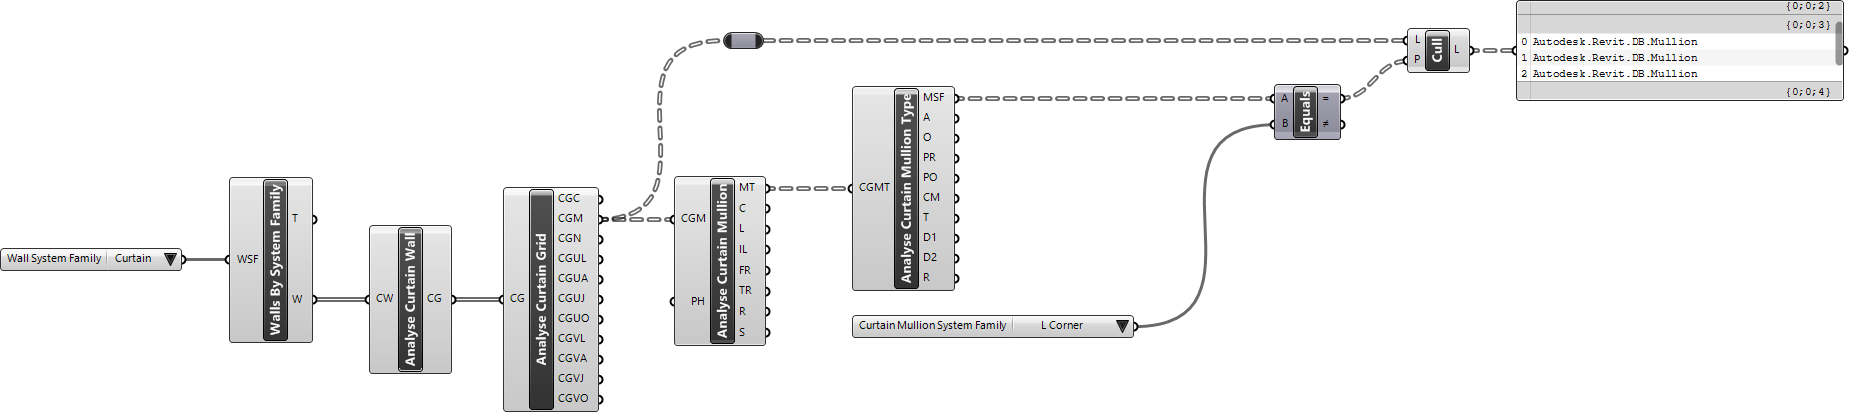
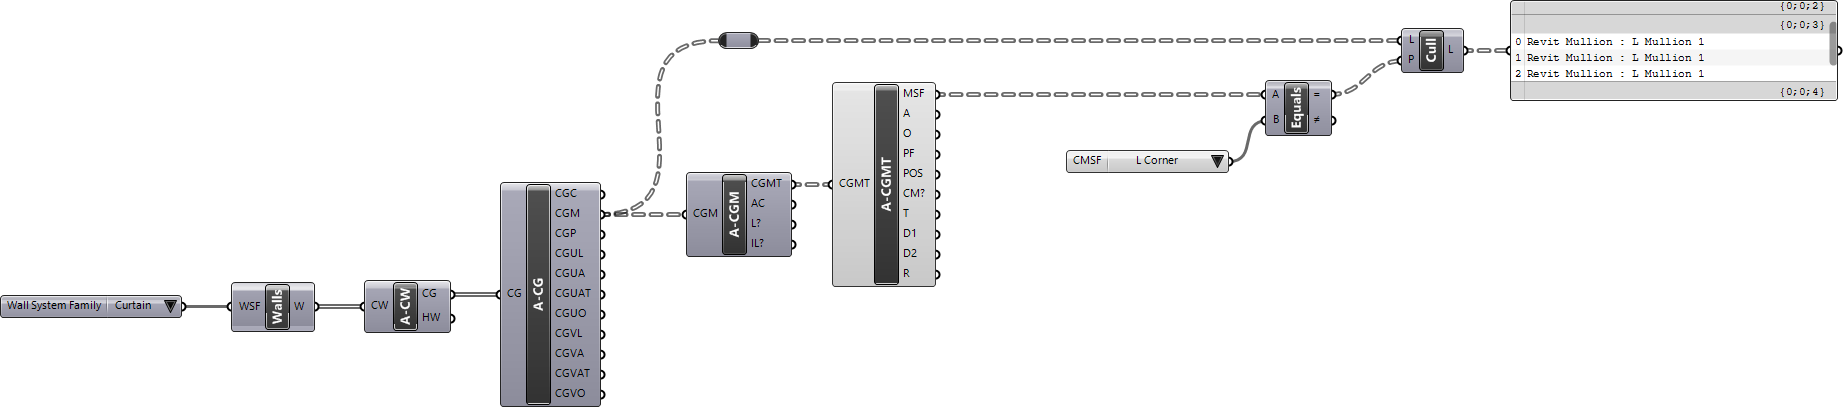
wiki update

diff --git a/docs/pages/_en/beta/guides/revit-curtainwalls.md b/docs/pages/_en/beta/guides/revit-curtainwalls.md
@@ -41,7 +41,7 @@ The types of *Curtain Mullions* and *Panels* used for a wall are defined in the 
 
 ## Walls vs Systems
 
-*Curtain Walls* and *Systems* are almost identical in definition. The only difference is that *Curtain Walls* are vertical and have directionality so the *Grid* configuration is set for **Vertical** and **Horizontal** grid lines. *Curtain Systems* can be created from *Mass* surfaces and thus are not bounded to a certain direction. Hence the *Grid* configurations is set for **Grid 1** and **Grid 2** axes.
+*Curtain Walls* and *Curtain Systems* are almost identical in definition. The only difference is that *Curtain Walls* are vertical and have directionality so the *Grid* configuration is set for **Vertical** and **Horizontal** grid lines. *Curtain Systems* can be created from *Mass* surfaces and thus are not flowing in a certain direction. Hence the *Grid* configurations is set for **Grid 1** and **Grid 2** axes.
 
 {% capture api_note %}
 In Revit API, *Curtain Walls* are represented by {% include api_type.html type='Autodesk.Revit.DB.Wall' title='DB.Wall' %} and *Curtain Systems* are represented by {% include api_type.html type='Autodesk.Revit.DB.CurtainSystem' title='DB.CurtainSystem' %} 
@@ -50,12 +50,12 @@ In Revit API, *Curtain Walls* are represented by {% include api_type.html type='
 
 ## Querying Curtain Walls
 
-Similar to collecting *Basic* and *Stacked Walls*, the custom components shared at [Walls (Basic & Stacked)]({{ site.baseurl }}{% link _en/beta/guides/revit-walls.md %}#by-wall-system-family) section, can help filtering the Curtain Wall instances and types:
+Similar to collecting *Basic* and *Stacked Walls*, the components shown at [Walls (Basic & Stacked)]({{ site.baseurl }}{% link _en/beta/guides/revit-walls.md %}#by-wall-system-family) section, can help filtering the Curtain Wall instances and types:
 
 ![]({{ "/static/images/guides/revit-curtainwalls03.png" | prepend: site.baseurl }})
 
 {% capture bubble_note %}
-As shown in the images below, a combination of category picker, *Element.CategoryFilter*, and *Document.ElementTypes* can be used to filter the *Curtain Panel* and *Curtain Mullion* types and instances in a model. However, the collector does not return anything for *Curtain Grids*. See [Analyzing Curtain Walls](#analyzing-curtain-walls) for better workflows to extract *Panel* and *Mullion* information. As you can see, the *Curtain Grids* graph does not return any results for Grid Types. The Panel and Mullion types can be collected:
+As shown in the images below, a combination of category picker, *Element.CategoryFilter*, and *Document.ElementTypes* can be used to filter the *Curtain Panel* and *Curtain Mullion* types and instances in a model. However, the collector does not return anything for *Curtain Grids*. See [Analyzing Curtain Walls](#analyzing-curtain-walls) for better workflows to extract *Panel* and *Mullion* information. As you can see, the *Curtain Grids* graph does not return any results for Grid Types. The Panel and Mullion types can be collected however:
 
 &nbsp;
 
@@ -71,25 +71,22 @@ And the same for collecting instances:
 
 ## Analyzing Curtain Wall Types
 
-Now that we can collect the Curtain Wall Types in the mode, use the custom component shared here to analyze the properties:
+Now that we can collect the *Curtain Wall Types*, use the components shown here to analyze their properties:
 
 ![]({{ "/static/images/guides/revit-curtainwalls04.png" | prepend: site.baseurl }})
 
-{% include ltr/download_comp.html archive='/static/ghnodes/Analyse Curtain Wall Type.ghuser' name='Analyse Curtain Wall Type' %}
-{% include ltr/download_comp.html archive='/static/ghnodes/Curtain Grid Layout.ghuser' name='Curtain Grid Layout' %}
-{% include ltr/download_comp.html archive='/static/ghnodes/Curtain Join Condition.ghuser' name='Curtain Join Condition' %}
 
 ## Analyzing Curtain Walls
 
 ### Extracting Curtain Wall Geometry
 
-The full geometry of a Curtain Wall instance can be extracted using the *Element.Geometry* component:
+The full geometry of a *Curtain Wall* instance can be extracted using the *Element.Geometry* component:
 
 ![]({{ "/static/images/guides/revit-curtainwalls05.png" | prepend: site.baseurl }})
 
 {% include ltr/issue_note.html issue_id='176' note='Element.Geometry does not extract Curtain Wall and System Geometries' %}
 
-The custom component shared here, can be used to extract bounding geometry of a given Curtain Wall instance:
+The *Element Bounding Geometry* component shown here, can be used to extract bounding geometry of a given *Curtain Wall* instance:
 
 ![]({{ "/static/images/guides/revit-curtainwalls06.png" | prepend: site.baseurl }})
 
@@ -97,11 +94,10 @@ The custom component shared here, can be used to extract bounding geometry of a 
 
 ![]({{ "/static/images/guides/revit-curtainwalls06a.png" | prepend: site.baseurl }})
 
-{% include ltr/download_comp.html archive='/static/ghnodes/Analyse Curtain Wall.ghuser' name='Analyse Curtain Wall' %}
 
 ### Embedded Curtain Walls
 
-Curtain Walls can be embedded inside other walls. The *Analyse Curtain Wall* component shared above, can provide access the to the parent wall (**HW**), embedding the given *Curtain Wall* instance. If *Curtain Wall* is not embedded, `null` is returned:
+*Curtain Walls* can be embedded inside other walls. The *Analyze Curtain Wall* component shown above, can provide access the to the parent/host wall (**HW**), embedding the given *Curtain Wall* instance. If *Curtain Wall* is not embedded, `null` is returned:
 
 ![]({{ "/static/images/guides/revit-curtainwalls06c.png" | prepend: site.baseurl }})
 
@@ -112,25 +108,22 @@ In Revit API, Curtain Grids are represented by the {% include api_type.html type
 {% endcapture %}
 {% include ltr/api_note.html note=api_note %}
 
-The *Analyse Curtain Wall* component shared above, can provide access to the *Curtain Grid* of a *Curtain Wall* instance. *Curtain Grid* can be used to extract information about the *Grid*, and access the individual *Cells*, *Mullions*, and *Panels* on the *Curtain Wall*:
+The *Analyze Curtain Wall* component shown above, can provide access to the *Curtain Grid* of a *Curtain Wall* instance. *Curtain Grid* can be used to extract information about the *Grid*, and access the individual *Cells*, *Mullions*, and *Panels* on the *Curtain Wall*:
 
 ![]({{ "/static/images/guides/revit-curtainwalls06b.png" | prepend: site.baseurl }})
 
 ## Analyzing Curtain Grids
 
-Using the component shared here, the *Curtain Grid* can be further broken down to its properties and hosted elements:
+Using the component shown here, the *Curtain Grid* can be further broken down to its properties and hosted elements:
 
 - **Curtain Cells**: Returns all the individual *Curtain Cells*. Cells are the bounded areas between the grid lines
 - **Curtain Mullions**: Returns all the individual *Curtain Mullions*
-- **Curtain Inserts**:Returns all the individual *Curtain Panels* or *Family Instances* (e.g. *Curtain Wall Door*) hosted on the *Curtain Cells*
+- **Curtain Panels**: Returns all the individual *Curtain Panels* or *Family Instances* (e.g. *Curtain Wall Door*) hosted on the *Curtain Cells*
 - **Curtain Grid Lines**: Returns all the individual *Curtain Grid Lines* along U and V directions and their properties
 
 &nbsp;
 
 ![]({{ "/static/images/guides/revit-curtainwalls07.png" | prepend: site.baseurl }})
-
-{% include ltr/download_comp.html archive='/static/ghnodes/Analyse Curtain Grid.ghuser' name='Analyse Curtain Grid' %}
-{% include ltr/download_comp.html archive='/static/ghnodes/Curtain Grid Align Type.ghuser' name='Curtain Grid Align Type' %}
 
 ## Analyzing Cells
 
@@ -139,7 +132,7 @@ In Revit API, Curtain Cells are represented by the {% include api_type.html type
 {% endcapture %}
 {% include ltr/api_note.html note=api_note %}
 
-The component shared here, can analyze each curtain cell and extract the cell curves (**CL**) and the panelized curves (**PCL**):
+The component shown here, can analyze each curtain cell and extract the cell curves (**CL**) and the panelized curves (**PCL**):
 
 ![]({{ "/static/images/guides/revit-curtainwalls08.png" | prepend: site.baseurl }})
 
@@ -157,10 +150,6 @@ The panelized curves can be used to create faces. Notice that each cell is marke
 
 ![]({{ "/static/images/guides/revit-curtainwalls10a.png" | prepend: site.baseurl }})
 
-&nbsp;
-
-{% include ltr/download_comp.html archive='/static/ghnodes/Analyse Curtain Cell.ghuser' name='Analyse Curtain Cell' %}
-
 ## Analyzing Mullions
 
 {% capture api_note %}
@@ -168,7 +157,7 @@ In Revit API, Curtain Mullions are represented by the {% include api_type.html t
 {% endcapture %}
 {% include ltr/api_note.html note=api_note %}
 
-The geometry for *Curtain Mullions* can be extracted by passing the *Mullions* from *Analyse Curtain Wall* component, to the *Element.Geometry* component:
+The geometry for *Curtain Mullions* can be extracted by passing the *Mullions* from *Analyze Curtain Wall* component, to the *Element.Geometry* component:
 
 ![]({{ "/static/images/guides/revit-curtainwalls11.png" | prepend: site.baseurl }})
 
@@ -180,17 +169,13 @@ The *Mullion* location curve can also be extracted by passing the *Mullion* to a
 
 ![]({{ "/static/images/guides/revit-curtainwalls12.png" | prepend: site.baseurl }})
 
-{% include ltr/issue_note.html issue_id='177' note='Passing a Curtain Mullion (DB.Mullion) to Curve component should output the location curve of the mullion' %}
-
-The custom component shared here can be used to extract information about the individual *Curtain Mullions*:
+The component shown here can be used to extract information about the individual *Curtain Mullions*:
 
 ![]({{ "/static/images/guides/revit-curtainwalls13.png" | prepend: site.baseurl }})
 
-The C output provides the base curve of the *Mullion*. Notice how the horizontal curves are not intersecting the vertical curves, as the curves follow the join settings for the associated *Mullions*:
+The **AC** output provides all the base curve of the *Mullion*. Notice how the horizontal curves are not intersecting the vertical curves, as the curves follow the join settings for the associated *Mullions*:
 
 ![]({{ "/static/images/guides/revit-curtainwalls13a.png" | prepend: site.baseurl }})
-
-{% include ltr/download_comp.html archive='/static/ghnodes/Analyse Curtain Mullion.ghuser' name='Analyse Curtain Mullion' %}
 
 ### Analyzing Mullion Types
 
@@ -199,28 +184,24 @@ In Revit API, Curtain Mullion Types are represented by the {% include api_type.h
 {% endcapture %}
 {% include ltr/api_note.html note=api_note %}
 
-The **Analyse Curtain Mullion Type** custom component shared here can be used to analyze the *Mullion Types* extracted by the *Analyse Curtain Mullion* component:
+The *Analyze Curtain Mullion Type* component shown here can be used to analyze the *Mullion Types* extracted by the *Analyze Curtain Mullion* component:
 
 ![]({{ "/static/images/guides/revit-curtainwalls14.png" | prepend: site.baseurl }})
 
-The **Curtain Mullion System Family** value picker can be used to filter the *Mullions* by their *System Family* e.g. *L Corner Mullions*
+The *Curtain Mullion System Family* value picker can be used to filter the *Mullions* by their *System Family* e.g. *L Corner Mullions*
 
 ![]({{ "/static/images/guides/revit-curtainwalls14a.png" | prepend: site.baseurl }})
 
-&nbsp;
-
-{% include ltr/download_comp.html archive='/static/ghnodes/Analyse Curtain Mullion Type.ghuser' name='Analyse Curtain Mullion Type' %}
-
 ## Analyzing Panels
 
-*Curtain Walls* can host two types of inserts. They can be either *Curtain Panels* or instances of *Custom Families* designed to work with *Curtain Walls* like a *Curtain Wall Door* instance. The components shared here help analyzing the Panels. The family instances can be analyzed using the methods and components provided in [Data Model: Types]({{ site.baseurl }}{% link _en/beta/guides/revit-types.md %}) and [Data Model: Instances]({{ site.baseurl }}{% link _en/beta/guides/revit-instances.md %}) guides.
+*Curtain Walls* can host two types of inserts. They can be either *Curtain Panels* or instances of *Custom Families* designed to work with *Curtain Walls* like a *Curtain Wall Door* instance. The components shown here help analyzing the *Curtain Panels*. The family instances can be analyzed using the methods and components provided in [Data Model: Types]({{ site.baseurl }}{% link _en/beta/guides/revit-types.md %}) and [Data Model: Instances]({{ site.baseurl }}{% link _en/beta/guides/revit-instances.md %}) guides.
 
 {% capture api_note %}
 In Revit API, Curtain Panels are represented by the {% include api_type.html type='Autodesk.Revit.DB.Panel' title='DB.Panel' %}
 {% endcapture %}
 {% include ltr/api_note.html note=api_note %}
 
-The geometry for *Curtain Panels* can be extracted by passing the *Panels* from *Analyse Curtain Wall* component, to the *Element.Geometry* component:
+The geometry for *Curtain Panels* can be extracted by passing the *Panels* from *Analyze Curtain Wall* component, to the *Element.Geometry* component:
 
 ![]({{ "/static/images/guides/revit-curtainwalls15.png" | prepend: site.baseurl }})
 
@@ -228,7 +209,7 @@ Notice how the panels are in order from bottom to top row:
 
 ![]({{ "/static/images/guides/revit-curtainwalls15a.png" | prepend: site.baseurl }})
 
-Since the **Curtain Grid Insert (CGN)** output parameter can return both System Panels (`DB.Panel`) and Custom Family Instances (`DB.FamilyInstance`), the same workflow can extract the geometry of all these insert types:
+Since the **Curtain Grid Panel (CGP)** output parameter can return both System Panels (`DB.Panel`) and Custom Family Instances (`DB.FamilyInstance`), the same workflow can extract the geometry of all these insert types:
 
 ![]({{ "/static/images/guides/revit-curtainwalls15b.png" | prepend: site.baseurl }})
 
@@ -236,21 +217,17 @@ Since the **Curtain Grid Insert (CGN)** output parameter can return both System 
 
 ![]({{ "/static/images/guides/revit-curtainwalls15c.png" | prepend: site.baseurl }})
 
-The custom component shared here can be used to extract information about the individual *Curtain Panels*:
+The component shown here can be used to extract information about the individual *Curtain Panels*:
 
 ![]({{ "/static/images/guides/revit-curtainwalls16.png" | prepend: site.baseurl }})
 
-This custom component also provides access to the Panel base point(**PB**) and normal/orientation vectors (**PN**):
+This component also provides access to the Panel base point(**PBP**) and normal/orientation vectors (**POV**):
 
 ![]({{ "/static/images/guides/revit-curtainwalls17.png" | prepend: site.baseurl }})
 
 &nbsp;
 
 ![]({{ "/static/images/guides/revit-curtainwalls18.png" | prepend: site.baseurl }})
-
-&nbsp;
-
-{% include ltr/download_comp.html archive='/static/ghnodes/Analyse Curtain Panel.ghuser' name='Analyse Curtain Panel' %}
 
 ### Analyzing Panel Types
 
@@ -259,17 +236,13 @@ In Revit API, Curtain Panel Types are represented by the {% include api_type.htm
 {% endcapture %}
 {% include ltr/api_note.html note=api_note %}
 
-The **Analyse Curtain Panel Type** custom component shared here can be used to analyze the *Panel Types* extracted by the *Analyse Curtain Panel* component:
+The *Analyze Curtain Panel Type* component shown here can be used to analyze the *Panel Types* extracted by the *Analyze Curtain Panel* component:
 
 ![]({{ "/static/images/guides/revit-curtainwalls19.png" | prepend: site.baseurl }})
 
-Note that **Panel Symbol (PS)** output parameter can return a System Panel Type (`DB.PanelType`) for a Custom Family Symbol (`DB.FamilySymbol`) depending on the type of Panel inserted into the Grid:
+Note that **Panel Symbol (PS)** output parameter can return a *System Panel Type* (`DB.PanelType`) or a *Custom Family Symbol* (`DB.FamilySymbol`) depending on the type of Panel inserted into the Grid:
 
 ![]({{ "/static/images/guides/revit-curtainwalls19a.png" | prepend: site.baseurl }})
-
-&nbsp;
-
-{% include ltr/download_comp.html archive='/static/ghnodes/Analyse Curtain Panel Type.ghuser' name='Analyse Curtain Panel Type' %}
 
 ## Analyzing Grid Lines
 
@@ -278,21 +251,19 @@ In Revit API, Curtain Grid Lines are represented by the {% include api_type.html
 {% endcapture %}
 {% include ltr/api_note.html note=api_note %}
 
-The curve for *Curtain Grid Lines* can be extracted by passing the *Grid Lines* from *Analyse Curtain Wall* component, to the *Curve* component:
+The curve for *Curtain Grid Lines* can be extracted by passing the *Grid Lines* from *Analyze Curtain Grid* component, to the *Curve* component:
 
 ![]({{ "/static/images/guides/revit-curtainwalls20.png" | prepend: site.baseurl }})
 
-{% include ltr/issue_note.html issue_id='178' note='Passing a Curtain Grid Line to Curve component should output the curve of the grid line' %}
-
-The custom component shared here can be used to extract info about each individual **Curtain Grid Line**:
+The component shown here can be used to extract info about each individual **Curtain Grid Line**:
 
 ![]({{ "/static/images/guides/revit-curtainwalls21.png" | prepend: site.baseurl }})
 
-Notice the difference between the *Curtain Grid Line* curves and segments. The **CGLC** provide access to a single curve for each line:
+Notice the difference between the *Curtain Grid Line* curves and segments. The **C** output parameter provide access to a single curve for each *Curtain Grid Line* along the U or V axes:
 
 ![]({{ "/static/images/guides/revit-curtainwalls22.png" | prepend: site.baseurl }})
 
-Where as the **CGLAS** provides access to all the line segments per each *Curtain Grid Line* and it also includes the unused segments outside of the wall boundaries:
+Whereas the **S** output parameter provides access to all the line segments per each *Curtain Grid Line* and it also includes the unused segments outside of the wall boundaries:
 
 ![]({{ "/static/images/guides/revit-curtainwalls23.png" | prepend: site.baseurl }})
 
@@ -302,7 +273,7 @@ Where as the **CGLAS** provides access to all the line segments per each *Curtai
 
 ### Extract Associated Mullions and Panels
 
-The *Analyse Curtain Grid Line* component also provides the Mullions and Panels that are associated with each *Grid Line*. Notice that the *Mullions* and *Panels* on the wall borders are not included since they are not part of the *Curtain Grid* definition:
+The *Analyze Curtain Grid Line* component also provides the Mullions and Panels that are associated with each *Grid Line*. Notice that the *Mullions* and *Panels* on the wall borders are not included since they are not part of the *Curtain Grid* definition:
 
 ![]({{ "/static/images/guides/revit-curtainwalls24.png" | prepend: site.baseurl }})
 
@@ -317,10 +288,6 @@ The *Analyse Curtain Grid Line* component also provides the Mullions and Panels 
 &nbsp;
 
 ![]({{ "/static/images/guides/revit-curtainwalls25a.gif" | prepend: site.baseurl }})
-
-&nbsp;
-
-{% include ltr/download_comp.html archive='/static/ghnodes/Analyse Curtain Grid Line.ghuser' name='Analyse Curtain Grid Line' %}
 
 ## Modifying Curtain Wall Types
 
